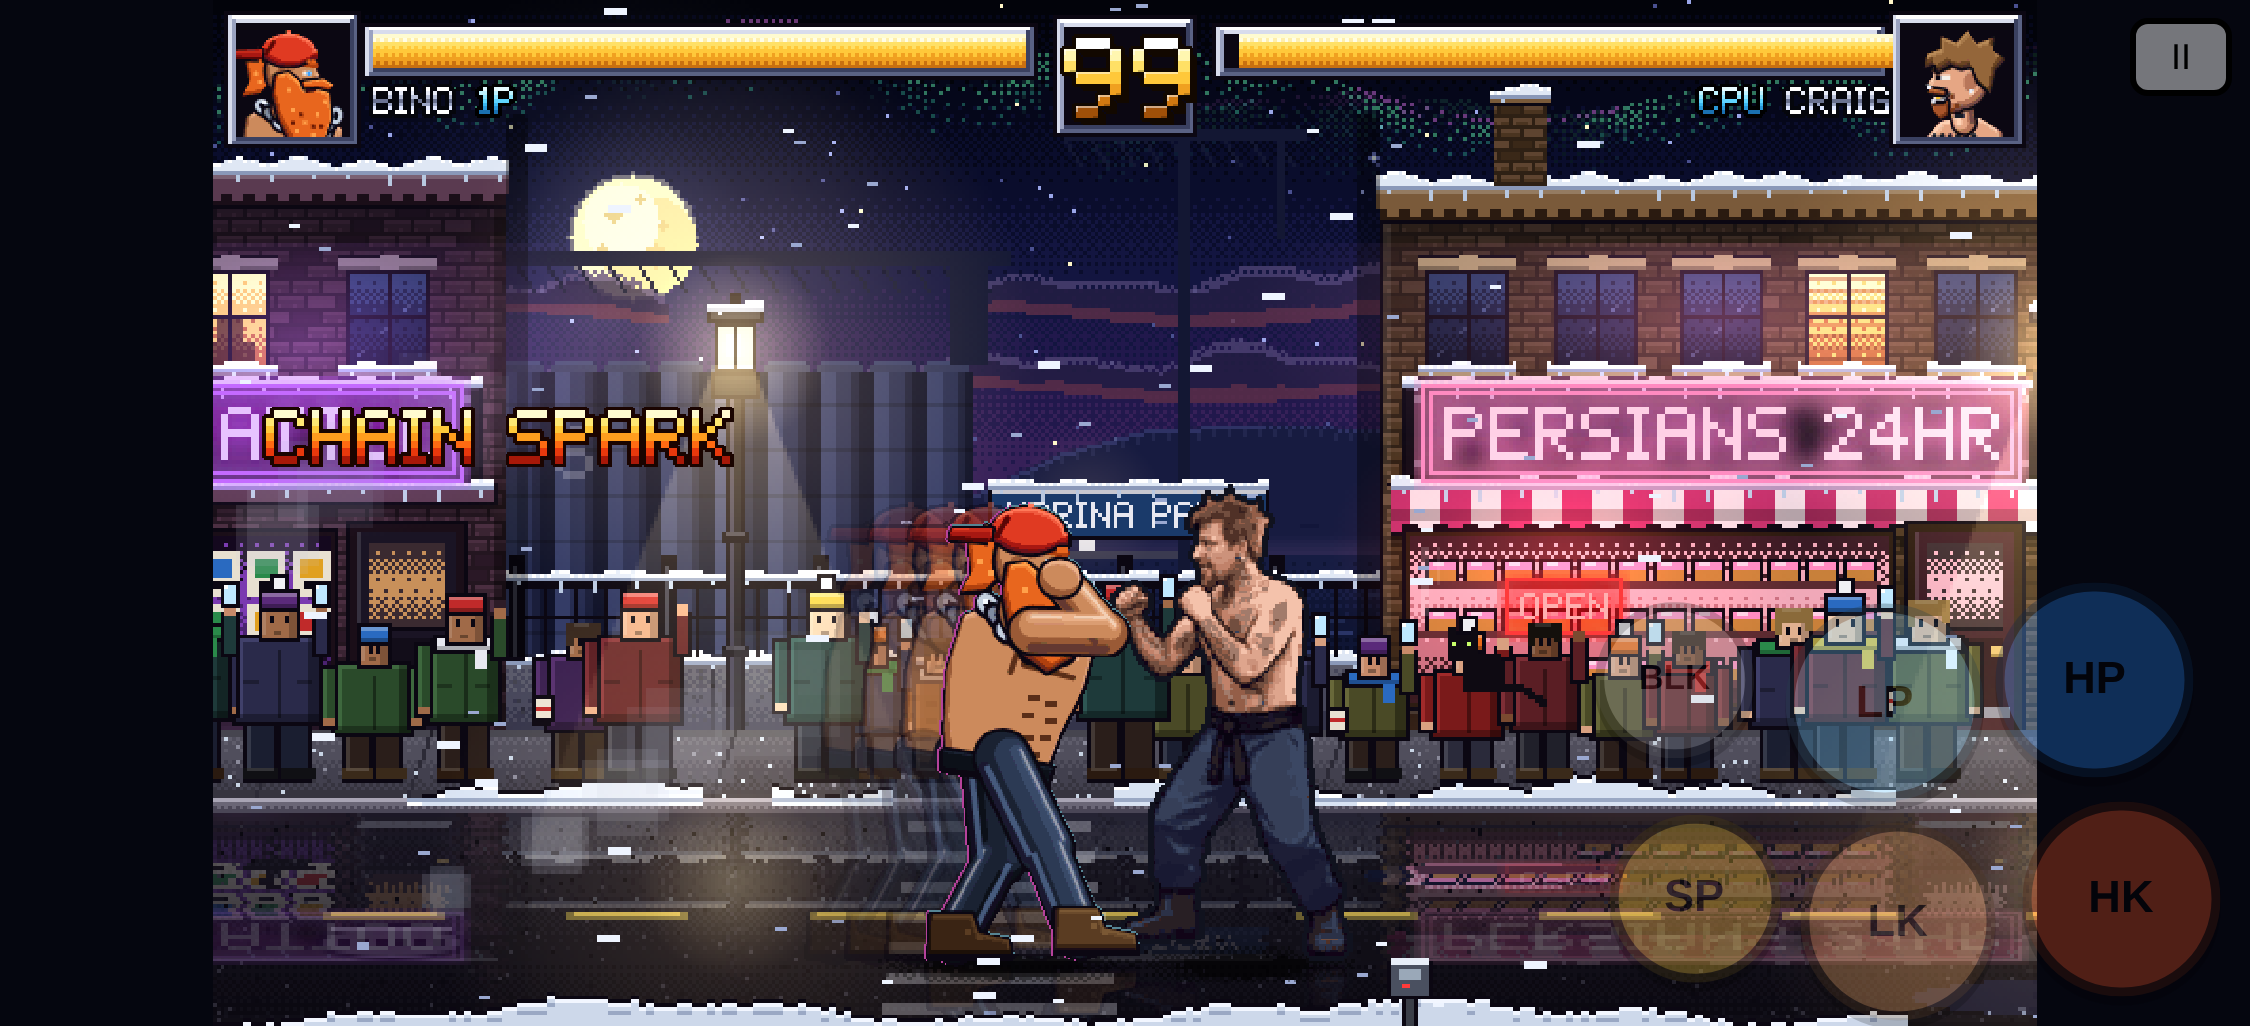
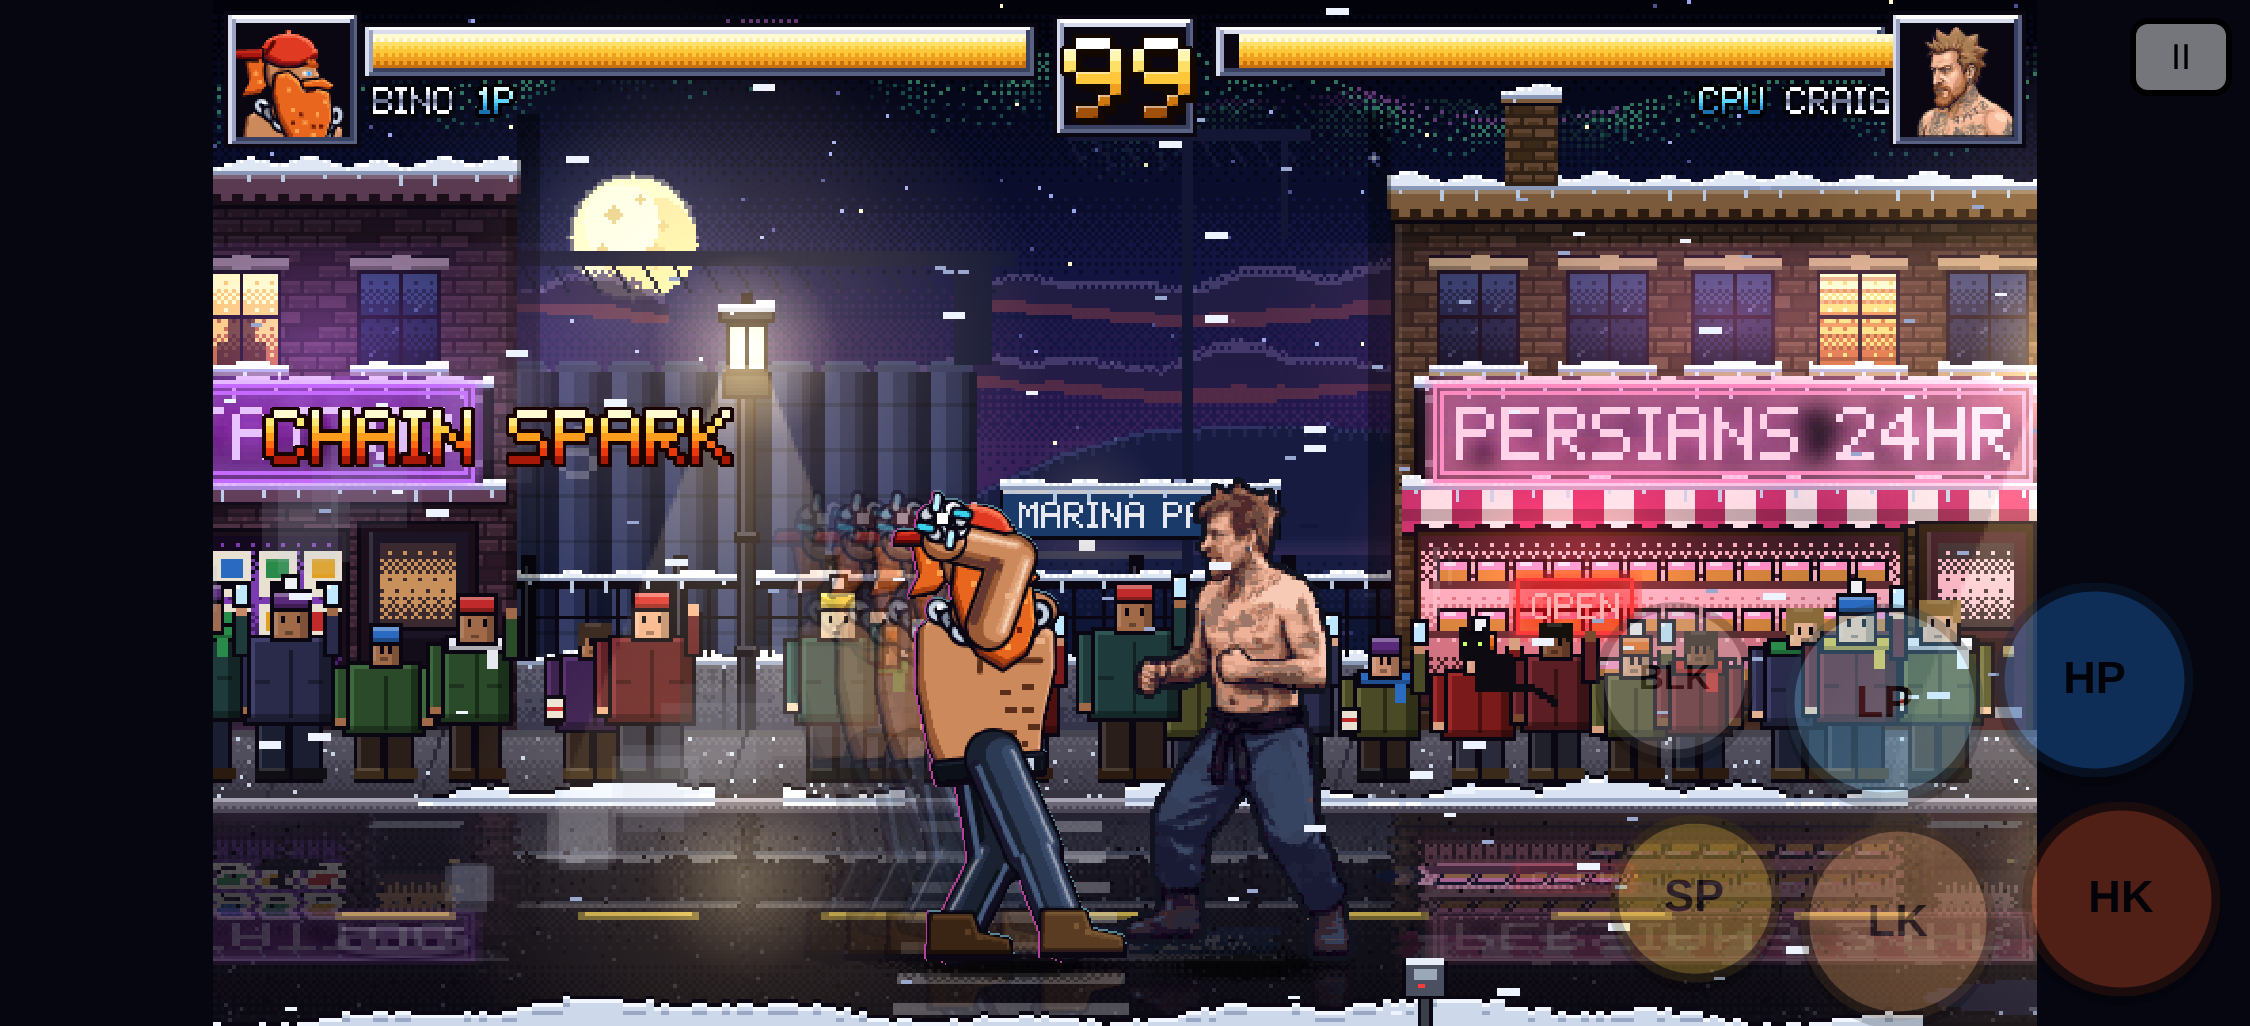
CRAIG: real generated poses (RunPod Nano Banana 2 edit) replace faked frames: 6-frame walk, standing + crouch block, crouch, jump rise/tuck/fall, punch/kick/special wind-ups, KO fall, lying KO, kneeling get-up, body hit; sprite-based select/VS/HUD/win portrait (art/craig_portrait.png) with fallback 

diff --git a/index.html b/index.html
@@ -183,9 +183,9 @@ const CHARS = {
     stats: { speed: 3, power: 3, health: 3, reach: 3 },
     hurt: { st: [-13, 0, 26, 72], cr: [-14, 0, 28, 46], air: [-13, 8, 26, 58] },
     colors: { skin: '#eaa880', top: '#1a2030', top2: '#0b0712', pants: '#2e4466', hair: '#94663a', band: '#b0b0c0', glove: '#eaa880', shoe: '#1e1e22' },
-    // AI-generated sprite sheet (art/craig.png, built by spritetest/process_live.py); falls back to the code-drawn art if it fails to load
-    render: 'sprite', sprite: { src: 'art/craig.png?v=ae995220', fw: 360, fh: 256, ox: 172, oy: 236, scale: 0.5, anims: {
-      idle: { row: 0, n: 4, fps: 5 }, walk: { row: 1, n: 4, by: 'walk', div: 6 },
+    // AI-generated sprite sheet (art/craig.png, built by spritetest/process_rp.py from frames_mk3 + RunPod poses; bust in art/craig_portrait.png); falls back to the code-drawn art if it fails to load
+    render: 'sprite', sprite: { src: 'art/craig.png?v=fd60d757', portrait: 'art/craig_portrait.png?v=6761bbd7', fw: 360, fh: 256, ox: 172, oy: 236, scale: 0.5, anims: {
+      idle: { row: 0, n: 4, fps: 5 }, walk: { row: 1, n: 6, by: 'walk', div: 5 },
       punch: { row: 2, n: 3, ph: ['s', 'a', 'r'] }, lp: { row: 2, n: 3, ph: ['s', 'a', 'r'] }, hp: { row: 2, n: 3, ph: ['s', 'a', 'r'] },
       kick: { row: 3, n: 3, ph: ['s', 'a', 'r'] }, lk: { row: 3, n: 3, ph: ['s', 'a', 'r'] }, hk: { row: 3, n: 3, ph: ['s', 'a', 'r'] },
       clp: { row: 17, n: 3, ph: ['s', 'a', 'r'] }, chp: { row: 17, n: 3, ph: ['s', 'a', 'r'] }, upper: { row: 17, n: 3, ph: ['s', 'a', 'r'] },
@@ -194,7 +194,7 @@ const CHARS = {
       sp: { row: 5, n: 3, ph: ['s', 'a', 'r'] }, toss: { row: 5, n: 3, ph: ['s', 'a', 'r'] },
       hit: { row: 4, n: 2 }, stagger: { row: 4, n: 2 }, hitlo: { row: 15, n: 2 }, chit: { row: 8, n: 1 }, kd: { row: 13, n: 3, by: 't', t: [4, 10] },
       lie: { row: 7, n: 1 }, ko: { row: 7, n: 1 }, rise: { row: 14, n: 3, by: 't', t: [5, 10] }, land: { row: 16, n: 1 },
-      crouch: { row: 8, n: 2, fps: 3 }, block: { row: 9, n: 1 }, cblock: { row: 8, n: 1 }, win: { row: 6, n: 1 }, lose: { row: 15, n: 1 } } },
+      crouch: { row: 8, n: 2, fps: 3 }, block: { row: 9, n: 1 }, cblock: { row: 19, n: 1 }, win: { row: 6, n: 1 }, lose: { row: 15, n: 1 } } },
     moves: {
       lp:  { s: 3, a: 2, r: 7,  dmg: 32, hs: 13, bs: 9,  box: [12, 54, 25, 9],  lvl: 'mid', push: 2.6, anim: 'punch' },
       hp:  { s: 7, a: 3, r: 15, dmg: 80, hs: 19, bs: 13, box: [12, 52, 34, 11], lvl: 'mid', push: 4.6, anim: 'punch', heavy: 1 },
@@ -1841,7 +1841,26 @@ function buildFighterArt() {
     SHEETS[ch] = buildSheet(ch);
     PORTRAITS[ch] = { n: makePortrait(ch, 30 * RES, 1.25 * RES, 'n'), h: makePortrait(ch, 30 * RES, 1.25 * RES, 'h'), big: makePortrait(ch, 96 * RES, 3.6 * RES, 'n'), win: makePortrait(ch, 96 * RES, 3.6 * RES, 's') };
     sheetRow(SHEETS[ch], SHEETS[ch].anims.idle.row);
+    loadPortrait(ch);
   }
+}
+/* a sprite fighter can ship a 192x192 PNG bust (C.sprite.portrait) for the select / VS / HUD / win portraits;
+   until it loads, or if it fails, the code-drawn portraits above stay in place */
+const PORTRAIT_IMG = {};
+function loadPortrait(ch) {
+  const C = CHARS[ch], src = C.render === 'sprite' && C.sprite && C.sprite.portrait; if (!src) return;
+  const apply = im => {
+    const fit = (size, smooth) => { const c = mk(size, size); c.g.imageSmoothingEnabled = smooth; if (smooth) c.g.imageSmoothingQuality = 'high'; c.g.drawImage(im, 0, 0, size, size); return c; };
+    const n = fit(30 * RES, true), h = fit(30 * RES, true);
+    h.g.globalCompositeOperation = 'source-atop'; h.g.fillStyle = 'rgba(255,40,40,0.38)'; h.g.fillRect(0, 0, h.width, h.height);
+    PORTRAITS[ch] = { n, h, big: fit(96 * RES, false), win: fit(96 * RES, false), img: 1 };
+  };
+  const P = PORTRAIT_IMG[ch];
+  if (P) { if (P.ok) apply(P.im); return; }
+  const im = new Image(), rec = PORTRAIT_IMG[ch] = { im, ok: 0 };
+  im.onload = () => { if (im.naturalWidth >= 32 && im.naturalHeight >= 32) { rec.ok = 1; apply(im); } };
+  im.onerror = () => { rec.failed = 1; };   // keep the code-drawn portraits
+  im.src = src;
 }
 
 /* ---------- picking a frame for the fighter's current state ---------- */
@@ -3016,7 +3035,7 @@ addEventListener('resize', fit); fit();
 paintLogo(0);
 /* ---- stale-cache guard: GitHub Pages lets browsers keep the page ~10 min. If the live copy has a
    newer build id than the one running, reload once onto it. ---- */
-const BUILD_ID = 'ae3df8dc';
+const BUILD_ID = '8fa8a58d';
 if ($('build')) $('build').textContent = 'build ' + BUILD_ID;
 (function freshCheck() {
   if (location.protocol === 'file:' || QS.has('nofresh') || !window.fetch) return;

diff --git a/test/test.js b/test/test.js
@@ -27,6 +27,8 @@ const BASE = 'http://localhost:' + (process.env.PORT || 8090);
   ok('pixel logo painted', await page.$eval('#logo', c => { const d = c.getContext('2d').getImageData(0, 0, c.width, c.height).data; let n = 0; for (let i = 3; i < d.length; i += 4) if (d[i]) n++; return n > 5000; }));
   ok('fighter art + stage built (' + await page.evaluate(() => BUILD_MS) + ' ms)', await page.evaluate(() => CHAR_IDS.every(c => SHEETS[c] && PORTRAITS[c].big) && !!(STAGES.bay && STAGES.bay.near && STAGES.alley && STAGES.alley.near) && !!SPK.K));
   ok('CRAIG AI sprite sheet loaded (' + await page.evaluate(() => CHARS.craig.sprite.img && CHARS.craig.sprite.img.naturalWidth + 'x' + CHARS.craig.sprite.img.naturalHeight) + ')', await page.evaluate(() => CHARS.craig.render === 'sprite' && !!CHARS.craig.sprite.img && !CHARS.craig.sprite.failed));
+  ok('CRAIG sprite anims all fit the sheet (walk ' + await page.evaluate(() => CHARS.craig.sprite.anims.walk.n) + ' frames)', await page.evaluate(() => { const S = CHARS.craig.sprite, im = S.img; return !!im && Object.values(S.anims).every(A => (A.row + 1) * S.fh <= im.naturalHeight && A.n * S.fw <= im.naturalWidth) && S.anims.walk.n === 6; }));
+  ok('CRAIG portrait PNG in use (select/VS/HUD/win)', await page.evaluate(() => PORTRAITS.craig.img === 1 && PORTRAITS.craig.big.width === 96 * RES && PORTRAITS.craig.n.width === 30 * RES && PORTRAITS.craig.h && PORTRAITS.craig.win));
   await page.tap('#btn-crt'); await W(page, 100); ok('CRT toggle', (await page.textContent('#btn-crt')).includes('ON'));
   await page.screenshot({ path: '../shot-title-crt.png' });
   await page.tap('#btn-crt'); await W(page, 100);
@@ -373,6 +375,7 @@ const BASE = 'http://localhost:' + (process.env.PORT || 8090);
     const ctx = await browser.newContext({ ...devices['iPhone 13 landscape'] }), fp = await ctx.newPage(), perr = [];
     fp.on('pageerror', e => perr.push(e.message));
     await ctx.route('**/art/craig.png*', r => r.abort());
+    await ctx.route('**/art/craig_portrait.png*', r => r.abort());
     await fp.goto(BASE + '/?q=2&cpu=bino'); await W(fp, 1200);
     await fp.tap('#btn-solo'); await W(fp, 150); await fp.tap('#pick-craig'); await fp.tap('#btn-fight'); await W(fp, 100); await fp.tap('#btn-stage-go');
     await until(fp, x => x.phase === 'vs', 2000); await fp.evaluate(() => FIGHT.skipVS()); await until(fp, x => x.phase === 'fight', 6000);
@@ -380,6 +383,7 @@ const BASE = 'http://localhost:' + (process.env.PORT || 8090);
     await W(fp, 600);
     const fb = await fp.evaluate(() => ({ failed: !!CHARS.craig.sprite.failed, img: !!CHARS.craig.sprite.img, n: _spr }));
     ok('sprite PNG blocked -> CRAIG falls back to the code-drawn art (' + fb.n + ' draws, no page errors)', fb.failed && !fb.img && fb.n > 10 && perr.length === 0);
+    ok('portrait PNG blocked -> code-drawn CRAIG portraits stay', await fp.evaluate(() => !PORTRAITS.craig.img && !!PORTRAITS.craig.big && !!PORTRAIT_IMG.craig.failed));
     await fp.screenshot({ path: '../shot-craig-fallback.png' });
     await ctx.close();
   }

diff --git a/src/2.js b/src/2.js
@@ -28,9 +28,9 @@ const CHARS = {
     stats: { speed: 3, power: 3, health: 3, reach: 3 },
     hurt: { st: [-13, 0, 26, 72], cr: [-14, 0, 28, 46], air: [-13, 8, 26, 58] },
     colors: { skin: '#eaa880', top: '#1a2030', top2: '#0b0712', pants: '#2e4466', hair: '#94663a', band: '#b0b0c0', glove: '#eaa880', shoe: '#1e1e22' },
-    // AI-generated sprite sheet (art/craig.png, built by spritetest/process_live.py); falls back to the code-drawn art if it fails to load
-    render: 'sprite', sprite: { src: 'art/craig.png?v=ae995220', fw: 360, fh: 256, ox: 172, oy: 236, scale: 0.5, anims: {
-      idle: { row: 0, n: 4, fps: 5 }, walk: { row: 1, n: 4, by: 'walk', div: 6 },
+    // AI-generated sprite sheet (art/craig.png, built by spritetest/process_rp.py from frames_mk3 + RunPod poses; bust in art/craig_portrait.png); falls back to the code-drawn art if it fails to load
+    render: 'sprite', sprite: { src: 'art/craig.png?v=fd60d757', portrait: 'art/craig_portrait.png?v=6761bbd7', fw: 360, fh: 256, ox: 172, oy: 236, scale: 0.5, anims: {
+      idle: { row: 0, n: 4, fps: 5 }, walk: { row: 1, n: 6, by: 'walk', div: 5 },
       punch: { row: 2, n: 3, ph: ['s', 'a', 'r'] }, lp: { row: 2, n: 3, ph: ['s', 'a', 'r'] }, hp: { row: 2, n: 3, ph: ['s', 'a', 'r'] },
       kick: { row: 3, n: 3, ph: ['s', 'a', 'r'] }, lk: { row: 3, n: 3, ph: ['s', 'a', 'r'] }, hk: { row: 3, n: 3, ph: ['s', 'a', 'r'] },
       clp: { row: 17, n: 3, ph: ['s', 'a', 'r'] }, chp: { row: 17, n: 3, ph: ['s', 'a', 'r'] }, upper: { row: 17, n: 3, ph: ['s', 'a', 'r'] },
@@ -39,7 +39,7 @@ const CHARS = {
       sp: { row: 5, n: 3, ph: ['s', 'a', 'r'] }, toss: { row: 5, n: 3, ph: ['s', 'a', 'r'] },
       hit: { row: 4, n: 2 }, stagger: { row: 4, n: 2 }, hitlo: { row: 15, n: 2 }, chit: { row: 8, n: 1 }, kd: { row: 13, n: 3, by: 't', t: [4, 10] },
       lie: { row: 7, n: 1 }, ko: { row: 7, n: 1 }, rise: { row: 14, n: 3, by: 't', t: [5, 10] }, land: { row: 16, n: 1 },
-      crouch: { row: 8, n: 2, fps: 3 }, block: { row: 9, n: 1 }, cblock: { row: 8, n: 1 }, win: { row: 6, n: 1 }, lose: { row: 15, n: 1 } } },
+      crouch: { row: 8, n: 2, fps: 3 }, block: { row: 9, n: 1 }, cblock: { row: 19, n: 1 }, win: { row: 6, n: 1 }, lose: { row: 15, n: 1 } } },
     moves: {
       lp:  { s: 3, a: 2, r: 7,  dmg: 32, hs: 13, bs: 9,  box: [12, 54, 25, 9],  lvl: 'mid', push: 2.6, anim: 'punch' },
       hp:  { s: 7, a: 3, r: 15, dmg: 80, hs: 19, bs: 13, box: [12, 52, 34, 11], lvl: 'mid', push: 4.6, anim: 'punch', heavy: 1 },

diff --git a/src/3b.js b/src/3b.js
@@ -872,7 +872,26 @@ function buildFighterArt() {
     SHEETS[ch] = buildSheet(ch);
     PORTRAITS[ch] = { n: makePortrait(ch, 30 * RES, 1.25 * RES, 'n'), h: makePortrait(ch, 30 * RES, 1.25 * RES, 'h'), big: makePortrait(ch, 96 * RES, 3.6 * RES, 'n'), win: makePortrait(ch, 96 * RES, 3.6 * RES, 's') };
     sheetRow(SHEETS[ch], SHEETS[ch].anims.idle.row);
+    loadPortrait(ch);
   }
+}
+/* a sprite fighter can ship a 192x192 PNG bust (C.sprite.portrait) for the select / VS / HUD / win portraits;
+   until it loads, or if it fails, the code-drawn portraits above stay in place */
+const PORTRAIT_IMG = {};
+function loadPortrait(ch) {
+  const C = CHARS[ch], src = C.render === 'sprite' && C.sprite && C.sprite.portrait; if (!src) return;
+  const apply = im => {
+    const fit = (size, smooth) => { const c = mk(size, size); c.g.imageSmoothingEnabled = smooth; if (smooth) c.g.imageSmoothingQuality = 'high'; c.g.drawImage(im, 0, 0, size, size); return c; };
+    const n = fit(30 * RES, true), h = fit(30 * RES, true);
+    h.g.globalCompositeOperation = 'source-atop'; h.g.fillStyle = 'rgba(255,40,40,0.38)'; h.g.fillRect(0, 0, h.width, h.height);
+    PORTRAITS[ch] = { n, h, big: fit(96 * RES, false), win: fit(96 * RES, false), img: 1 };
+  };
+  const P = PORTRAIT_IMG[ch];
+  if (P) { if (P.ok) apply(P.im); return; }
+  const im = new Image(), rec = PORTRAIT_IMG[ch] = { im, ok: 0 };
+  im.onload = () => { if (im.naturalWidth >= 32 && im.naturalHeight >= 32) { rec.ok = 1; apply(im); } };
+  im.onerror = () => { rec.failed = 1; };   // keep the code-drawn portraits
+  im.src = src;
 }
 
 /* ---------- picking a frame for the fighter's current state ---------- */

diff --git a/README.md b/README.md
@@ -111,6 +111,9 @@ sprite: { src: 'art/sara.png', fw: 180, fh: 128, ox: 86, oy: 116, scale: 1,
 - **Fallbacks:** crouching moves fall back to the standing anim, and any missing anim uses `idle`.
 - **Loading:** the procedural art is drawn until the image finishes loading (preloaded at boot). If the PNG fails to load, the fighter stays on the procedural art for the session; it also switches back to it while a stolen-item look is worn.
 - **CRAIG** uses one: `art/craig.png` (AI-generated stylized frames, cleaned up into a 20-colour sheet). Hitboxes, stats and netcode are unchanged.
+  Walk (6 frames), block, crouch block, crouch, jump rise/tuck/fall, punch/kick/special wind-ups, KO fall, lying KO, kneeling get-up and body hit are real generated poses (RunPod Nano Banana 2 edit); jump-attack and crouch-attack frames are still derived.
+  (Rebuilt with the local, unpublished `spritetest/` scripts rp_extract.py, process_rp.py and rp_portrait.py.)
+  A sprite character can also set `sprite.portrait` (a 192x192 PNG bust, here `art/craig_portrait.png`) for the select, VS, HUD and win portraits; if it fails to load the code-drawn portraits stay.
 
 Hitboxes are defined per move and are independent of the art. Use stylized likenesses only, not photos. After editing `src/`, run `node build.js` to rebuild `index.html`.
 
